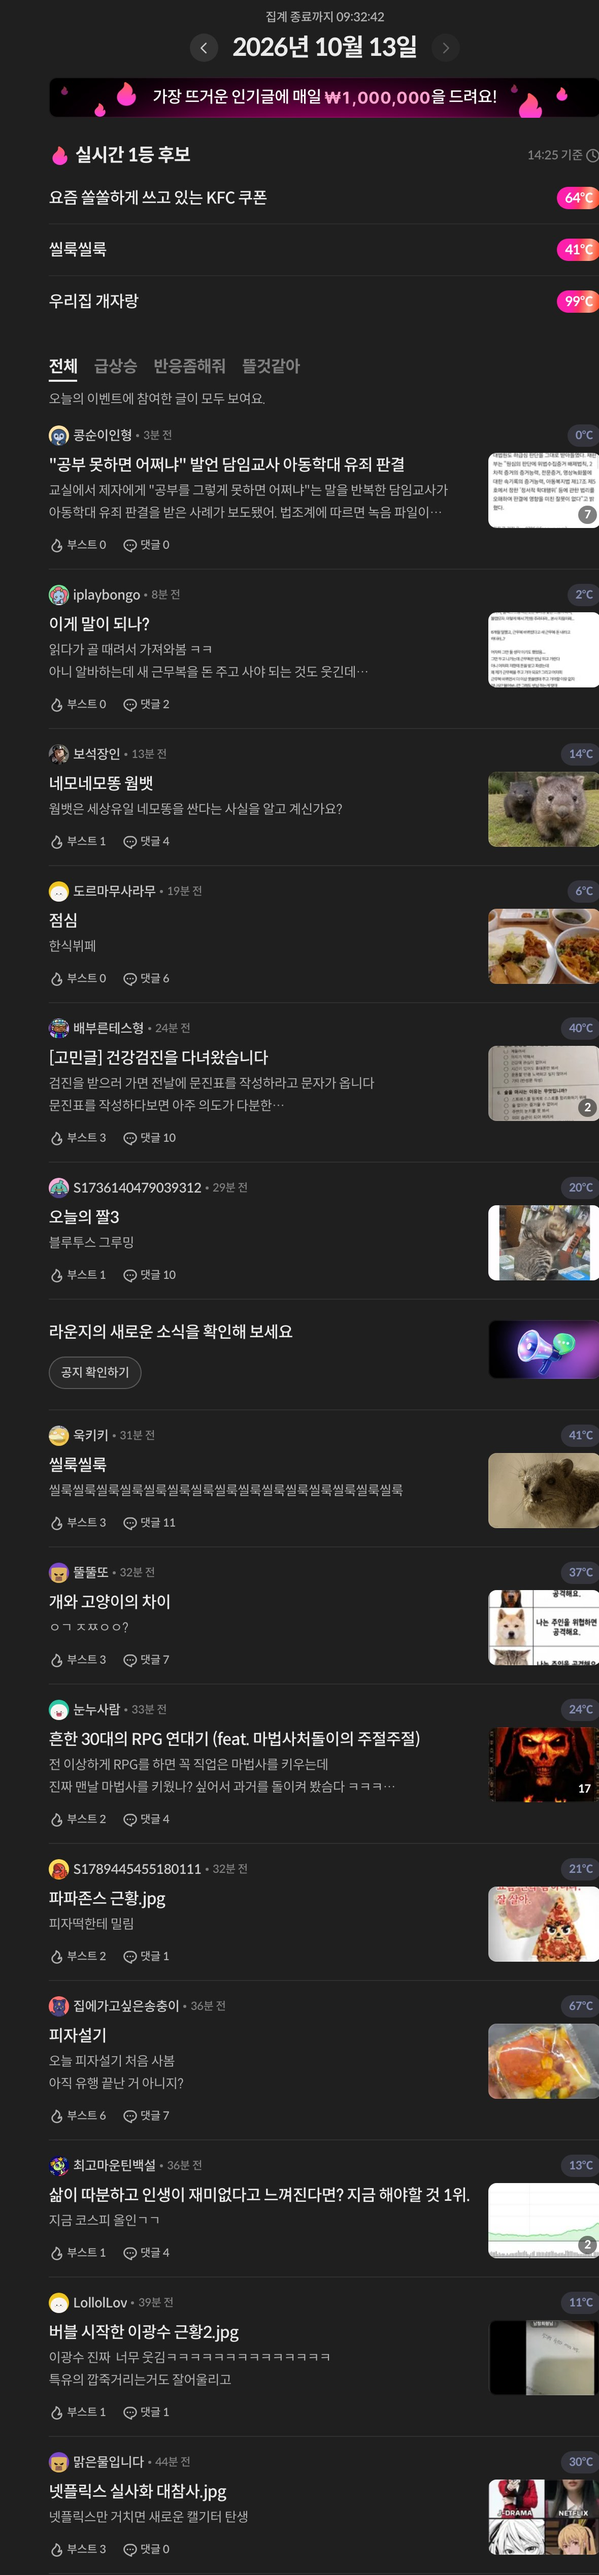
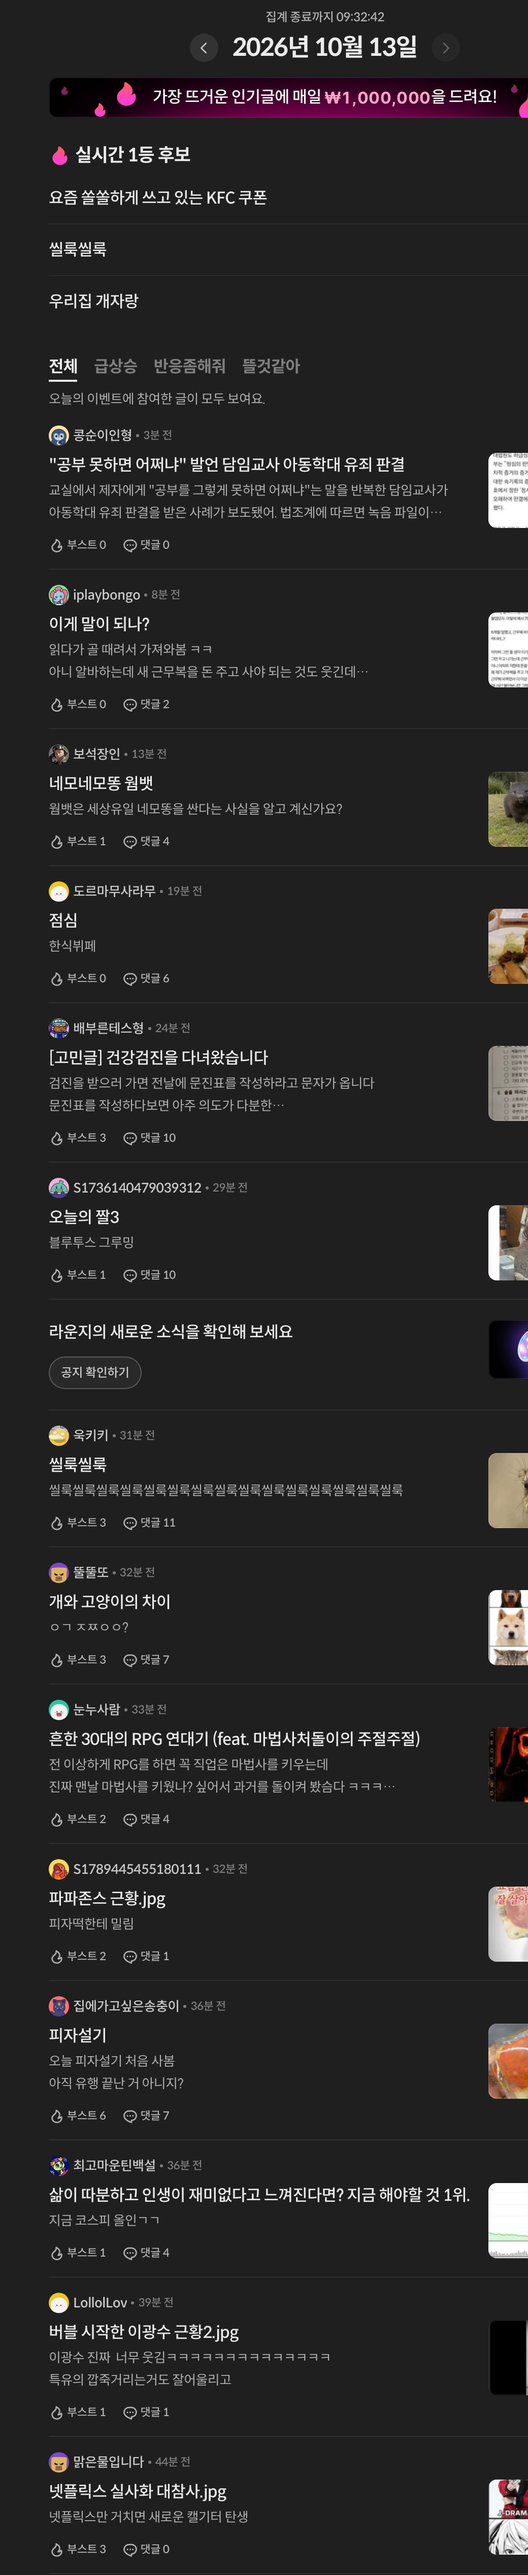
Set lounge column widths/gap to exact spec: 520 / 56 / 280
User supplied exact target measurements from the real native client
(center 520px, gap 56px, right 280px) rather than the proportionally-
derived values used previously. Re-cropped the center column from the
original raw capture to exactly 520px (72px-592px of the 1040px-wide
source, 1:1 at 2x so no distortion) and rescaled the right column
image to 280px, with a 56px margin-left gap between them.

diff --git a/lounge.html b/lounge.html
@@ -20,14 +20,15 @@
        동일 토큰(--background-variant-2)으로 맞춤. 스크롤바도 store.onstove.com
        실제 구조(트랙 2.4rem, 보이는 썸 0.8rem) 그대로 재현 — app-shell.html 참고.
 
-       실제 라운지는 3단 구성(좌: 아이콘 레일 72px / 가운데: 피드 590px /
-       우: 검색·추천 378px — 처음엔 672px 지점(가운데 600px)으로 나눴다가,
-       실제 네이티브 클라이언트 캡처와 픽셀 비교해서 경계가 662px 지점
-       (가운데 590px)이어야 정확히 맞는다는 걸 확인하고 보정함)이고
-       좌·우 단은 position:sticky로 고정된 채 가운데만 스크롤된다 — 이걸
+       실제 라운지는 3단 구성(좌: 아이콘 레일 72px / 가운데: 피드 520px /
+       (56px 간격) / 우: 검색·추천 280px — 처음 672px 지점(가운데 600px)
+       → 662px 지점(가운데 590px)까지 갔다가, 실제 네이티브 클라이언트
+       캡처 기준 정확한 값(가운데 520 / 간격 56 / 우측 280)으로 다시 보정함)
+       이고 좌·우 단은 position:sticky로 고정된 채 가운데만 스크롤된다 — 이걸
        정적 이미지 한 장으로 캡처하면 스크롤할 때 좌우도 같이 밀려 올라가서
-       실제 사이트와 다르게 보임. 그래서 원본 스크린샷을 3단 경계(72px /
-       662px 지점)로 그대로 잘라 세 장의 이미지로 나누고, 좌·우 이미지에
+       실제 사이트와 다르게 보임. 그래서 원본 스크린샷에서 가운데 열(72px~
+       592px 지점)만 그대로 잘라내고, 우측 열은 로그인 상태를 반영한 별도
+       스크린샷을 280px로 맞춰 56px 간격을 두고 배치 — 좌·우 이미지에
        직접 position:sticky를 줘서 실제
        사이트와 동일하게 가운데만 스크롤되게 재현. sticky가 끝까지 붙어
        있으려면 좌·우 열을 감싸는 wrapper가 가운데 열(2536px)과 같은
@@ -49,11 +50,12 @@
     .lounge-col-center { flex: 0 0 auto; }
     .lounge-col-left,
     .lounge-col-right { flex: 0 0 auto; height: 253.6rem; }
+    .lounge-col-right { margin-left: 5.6rem; } /* 가운데·우측 열 사이 56px 간격 */
     .lounge-col-left img,
     .lounge-col-right img { position: sticky; top: 0; display: block; }
     .lounge-col-left img { width: 7.2rem; }
-    .lounge-col-center img { display: block; width: 59rem; }
-    .lounge-col-right img { width: 37.8rem; }
+    .lounge-col-center img { display: block; width: 52rem; }
+    .lounge-col-right img { width: 28rem; }
 
     .app > .main::-webkit-scrollbar { width: 2.4rem; }
     .app > .main::-webkit-scrollbar-track { border-radius: var(--radius-full); }
